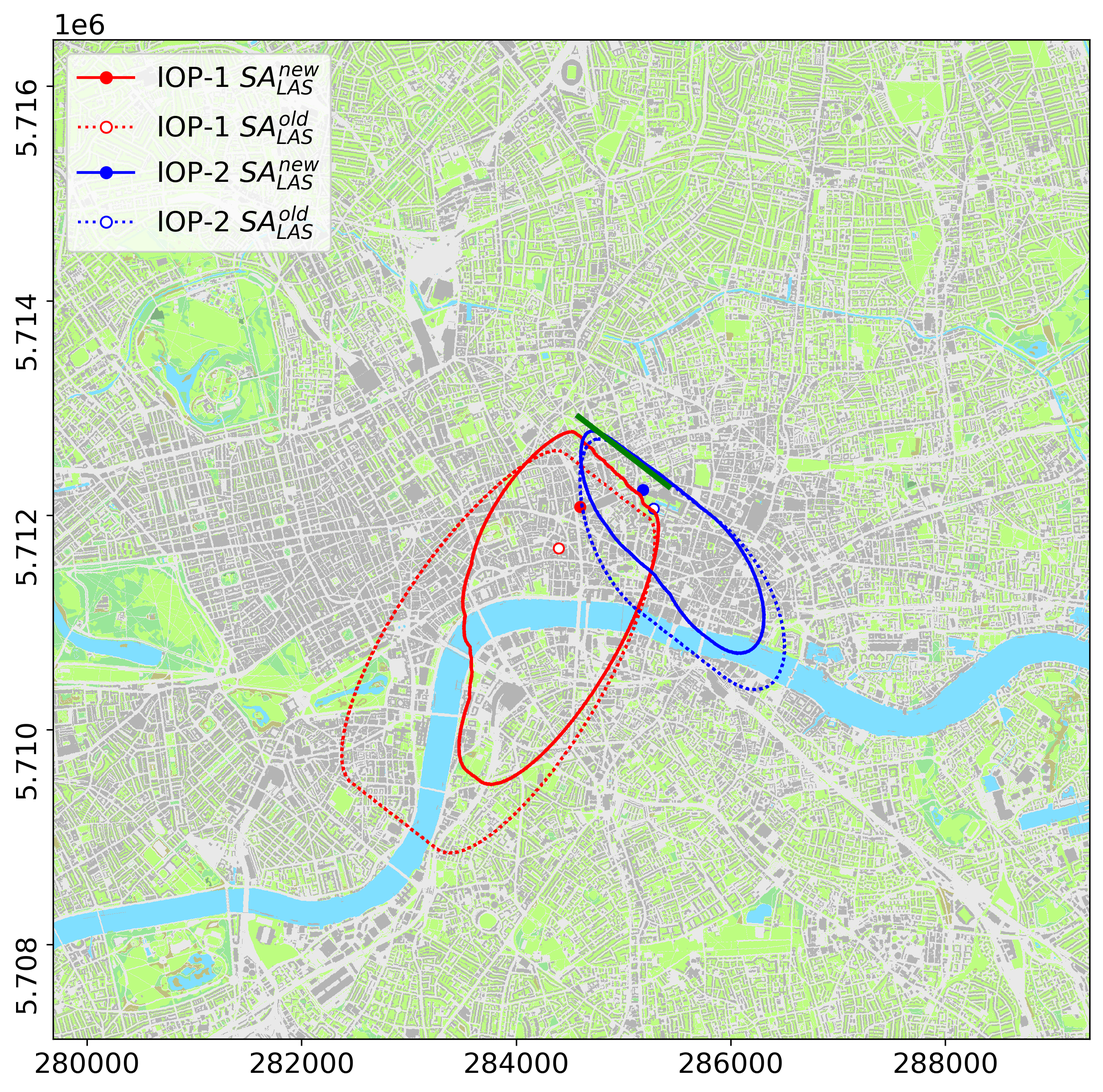
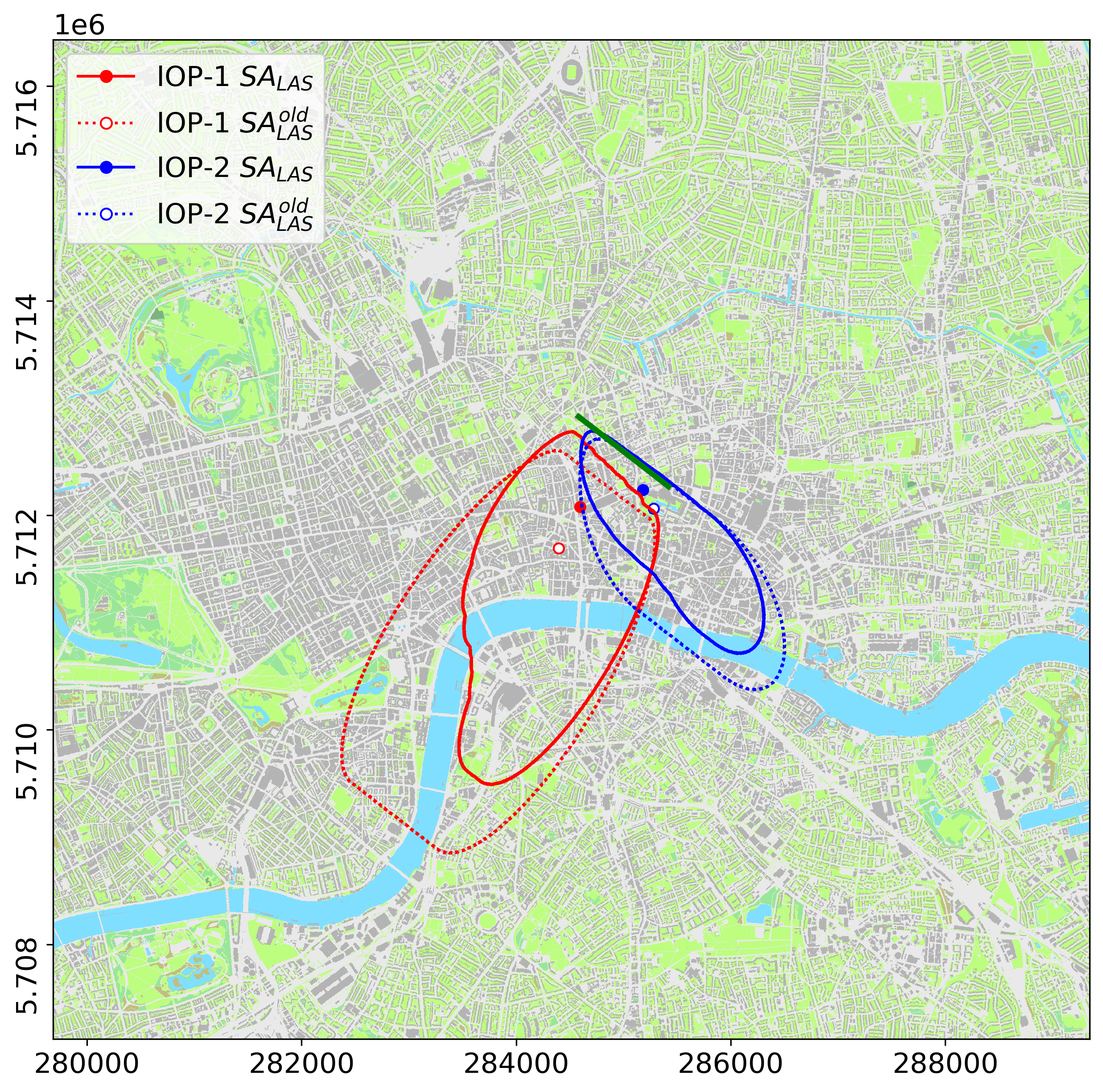
Change the label on the legend

Changed region(s): [[0.0622, 0.062, 0.3112, 0.2482]]

diff --git a/scint_plots/sa_method_tests/sa_method_test_map.py b/scint_plots/sa_method_tests/sa_method_test_map.py
@@ -20,7 +20,7 @@ custom_marker = ['o', 'o', 'o', 'o']
 
 custom_facecolours = ['red', 'white', 'blue', 'white']
 
-custom_labels = ['IOP-1 $SA_{LAS}^{new}$', 'IOP-1 $SA_{LAS}^{old}$', 'IOP-2 $SA_{LAS}^{new}$', 'IOP-2 $SA_{LAS}^{old}$']
+custom_labels = ['IOP-1 $SA_{LAS}$', 'IOP-1 $SA_{LAS}^{old}$', 'IOP-2 $SA_{LAS}$', 'IOP-2 $SA_{LAS}^{old}$']
 
 sa_lines.plot_sa_lines(file_list=file_list, colour_list=colour_list, doy_choice=False, save_path=current_dir, custom_labels=custom_labels, custom_linetype=custom_linetype, custom_marker=custom_marker, custom_facecolours=custom_facecolours)
 

diff --git a/scint_plots/stability_and_SA/stability_and_SA_funs.py b/scint_plots/stability_and_SA/stability_and_SA_funs.py
@@ -254,8 +254,8 @@ def stability_and_sa(df_dict, df_sa_constant):
     ax5.plot(df_sa_constant.index.values, df_sa_constant.z_f_123_constant.values, color='red', marker='o',
              markerfacecolor='white', linestyle=':')
 
+    ax5.plot([], [], color='black', marker='o', label='$SA_{LAS}$')
     ax5.plot([], [], color='black', marker='o', markerfacecolor='white', linestyle=':', label='$SA_{LAS}^{old}$')
-    ax5.plot([], [], color='black', marker='o', label='$SA_{LAS}^{new}$')
     ax5.legend()
 
     ax5.set_ylabel('z$_{f}$ (m)')

diff --git a/scint_plots/sa_method_tests/sa_method_tests.py b/scint_plots/sa_method_tests/sa_method_tests.py
@@ -168,7 +168,7 @@ def plot_method_tests(df):
     ax1.plot([], [], color='black', marker=markers['constant'], linestyle=linestyles['constant'],  markerfacecolor='white',
              label='$SA_{LAS}^{old}$')
     ax1.plot([], [], color='black', marker=markers['varying'], linestyle=linestyles['varying'],
-             label='$SA_{LAS}^{new}$')
+             label='$SA_{LAS}$')
     ax1.legend()
 
     ax1.set_ylabel('z$_{0}$ (m)')
